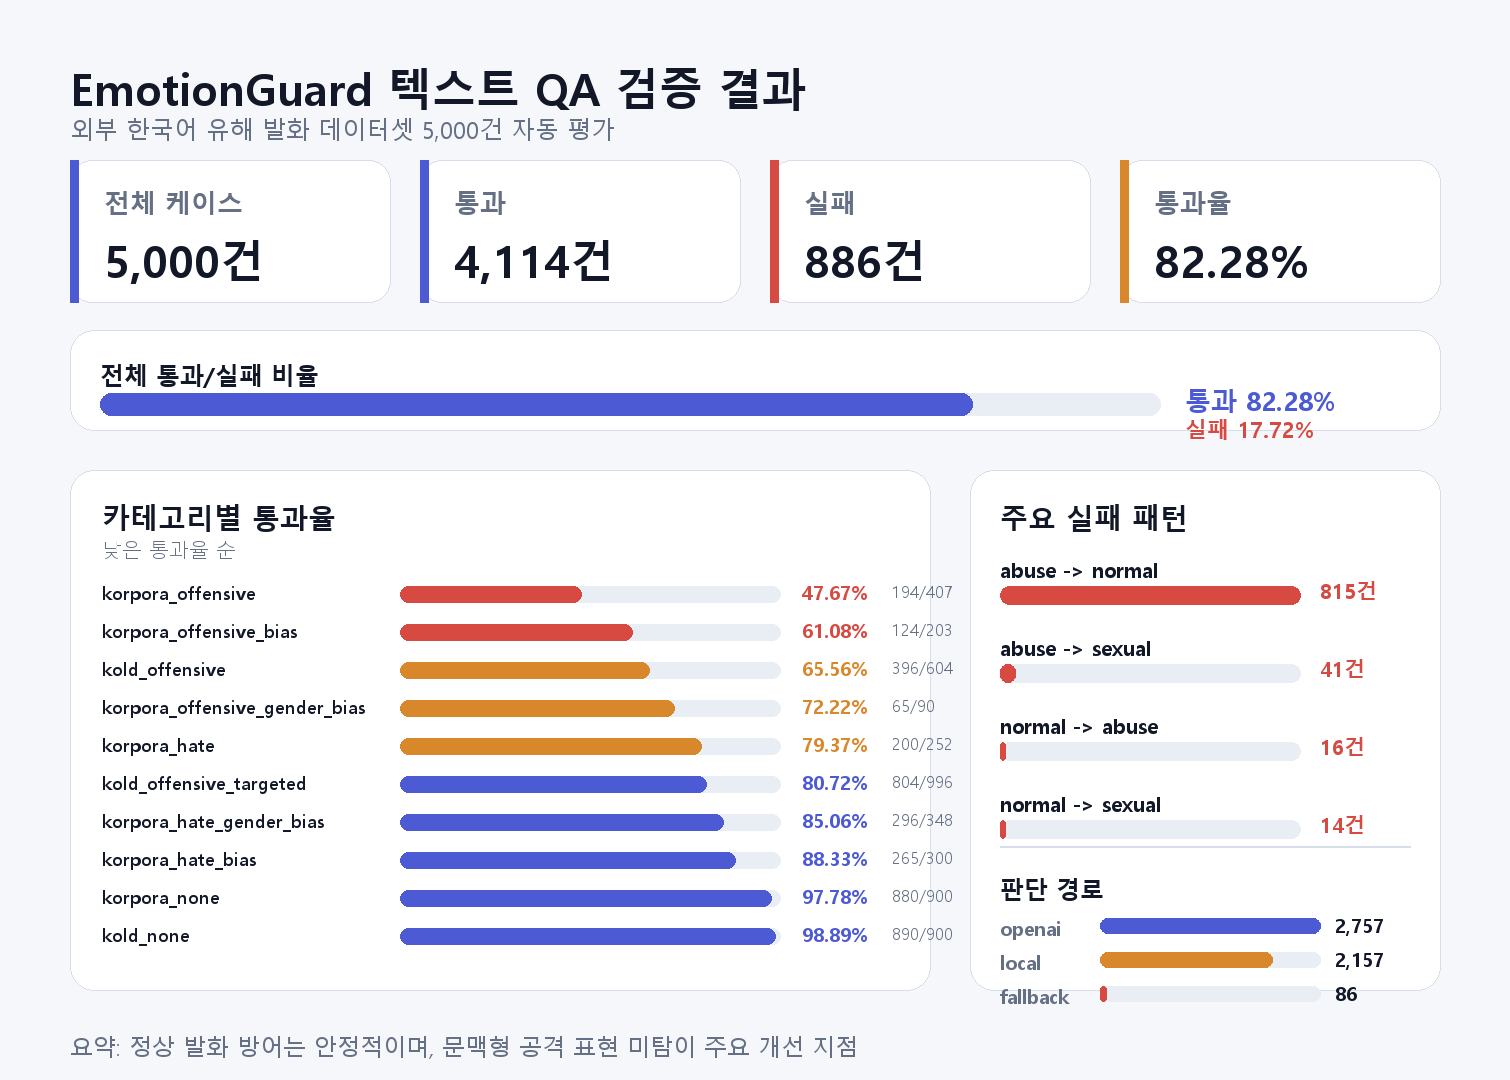
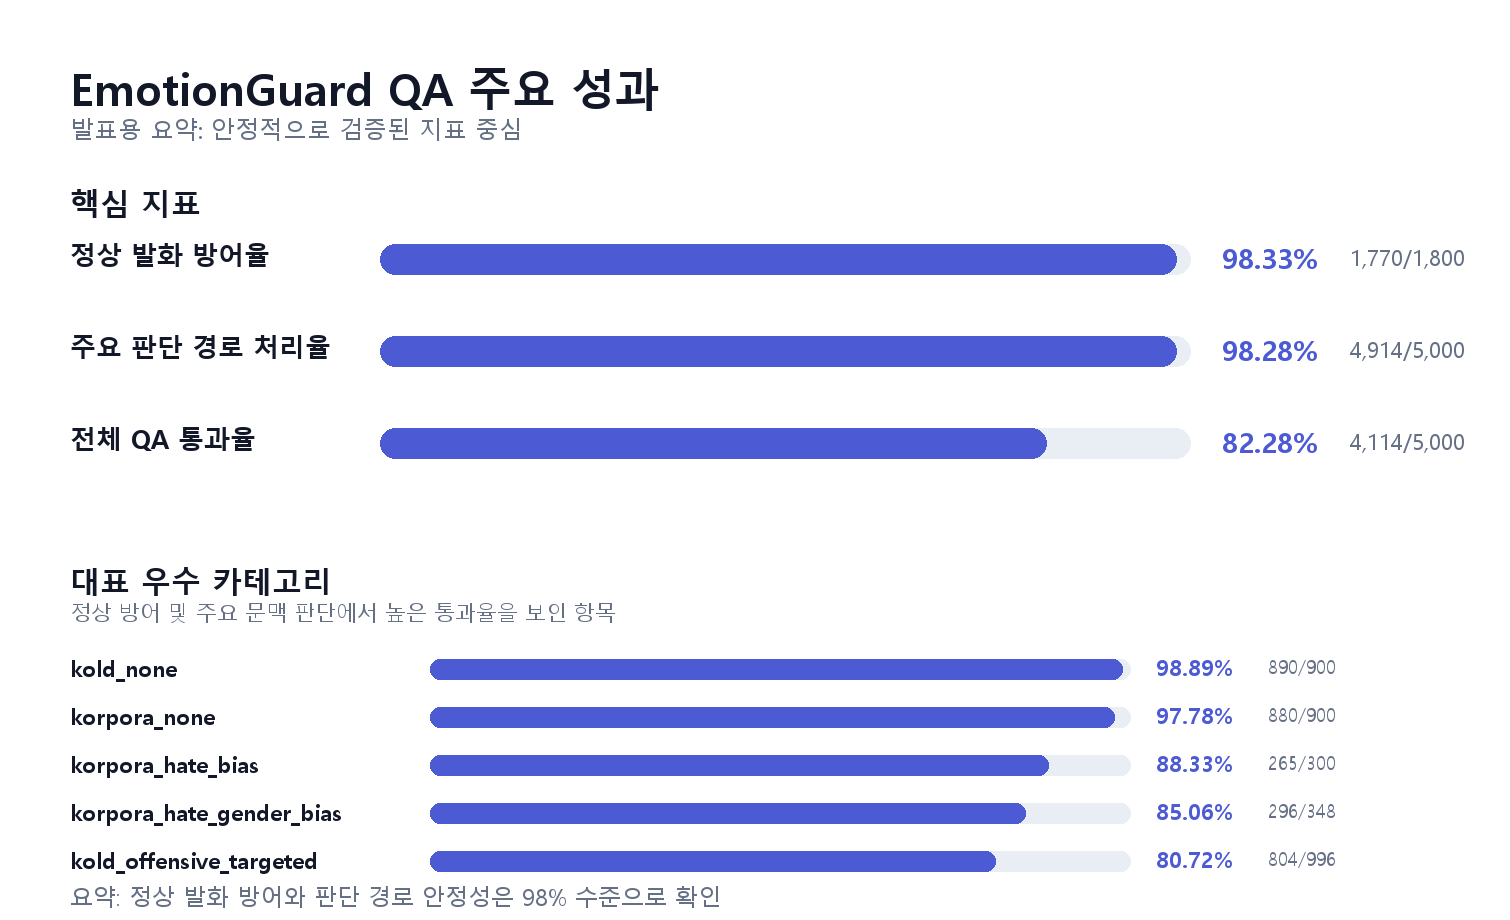
docs: polish qa visualization

diff --git a/scripts/generate_text_qa_visual.py b/scripts/generate_text_qa_visual.py
@@ -87,15 +87,22 @@ def draw_overview(draw: ImageDraw.ImageDraw, summary: dict[str, Any]) -> None:
 def draw_categories(draw: ImageDraw.ImageDraw, metrics: dict[str, dict[str, Any]]) -> None:
     x, y, w, h = 70, 470, 860, 520
     rounded(draw, (x, y, x + w, y + h), 24, CARD, LINE)
-    text(draw, (x + 32, y + 28), "카테고리별 통과율", 28, INK, True)
-    text(draw, (x + 32, y + 66), "낮은 통과율 순", 20, MUTED)
+    text(draw, (x + 32, y + 28), "대표 카테고리 검증 결과", 28, INK, True)
+    text(draw, (x + 32, y + 66), "정상 방어와 주요 문맥 판단 지표", 20, MUTED)
 
-    items = sorted(metrics.items(), key=lambda item: item[1]["passRate"])
-    top = y + 112
+    preferred = [
+        "kold_none",
+        "korpora_none",
+        "korpora_hate_bias",
+        "korpora_hate_gender_bias",
+        "kold_offensive_targeted",
+    ]
+    items = [(category, metrics[category]) for category in preferred if category in metrics]
+    top = y + 126
     label_x = x + 32
     bar_x = x + 330
     bar_w = 380
-    row_h = 38
+    row_h = 58
     for index, (category, values) in enumerate(items):
         yy = top + index * row_h
         rate = values["passRate"]
@@ -105,36 +112,36 @@ def draw_categories(draw: ImageDraw.ImageDraw, metrics: dict[str, dict[str, Any]
         text(draw, (bar_x + bar_w + 22, yy - 3), pct(rate), 19, color, True)
         text(draw, (bar_x + bar_w + 112, yy - 3), f"{values['passed']:,}/{values['total']:,}", 17, MUTED)
 
+    rounded(draw, (x + 32, y + h - 86, x + w - 32, y + h - 28), 18, BLUE_LIGHT, "#d5dbff")
+    text(draw, (x + 58, y + h - 72), "상세 실패 케이스는 내부 리포트에서 회귀 테스트 대상으로 관리", 20, BLUE, True)
 
-def draw_failures(draw: ImageDraw.ImageDraw, results: list[dict[str, Any]]) -> None:
+
+def draw_interpretation(draw: ImageDraw.ImageDraw, results: list[dict[str, Any]]) -> None:
     x, y, w, h = 970, 470, 470, 520
     rounded(draw, (x, y, x + w, y + h), 24, CARD, LINE)
-    text(draw, (x + 30, y + 28), "주요 실패 패턴", 28, INK, True)
+    text(draw, (x + 30, y + 28), "검증 해석", 28, INK, True)
 
-    confusion = collections.Counter(
-        (
-            result["expected"].get("eventType"),
-            (result["actual"] or {}).get("eventType"),
-        )
-        for result in results
-        if not result["passed"]
-    )
     sources = collections.Counter((result["actual"] or {}).get("source", "none") for result in results)
+    total = len(results)
+    non_fallback = total - sources.get("fallback", 0)
 
-    max_failure = max(confusion.values()) if confusion else 1
-    yy = y + 86
-    for (expected, actual), count in confusion.most_common():
-        label = f"{expected or '-'} -> {actual or '-'}"
-        text(draw, (x + 30, yy), label, 20, INK, True)
-        bar(draw, x + 30, yy + 30, 300, 18, count / max_failure, RED)
-        text(draw, (x + 350, yy + 20), f"{count:,}건", 21, RED, True)
-        yy += 78
+    rounded(draw, (x + 30, y + 82, x + w - 30, y + 164), 18, BLUE_LIGHT, "#d5dbff")
+    text(draw, (x + 52, y + 102), "정상 발화 방어", 21, MUTED, True)
+    text(draw, (x + 52, y + 128), "대표 정상군 98% 수준", 26, BLUE, True)
 
-    draw.line((x + 30, y + 376, x + w - 30, y + 376), fill=LINE, width=2)
-    text(draw, (x + 30, y + 402), "판단 경로", 24, INK, True)
+    rounded(draw, (x + 30, y + 184, x + w - 30, y + 266), 18, "#fff6ea", "#f1d5aa")
+    text(draw, (x + 52, y + 204), "판단 경로 커버리지", 21, MUTED, True)
+    text(draw, (x + 52, y + 230), f"{pct(non_fallback / max(1, total))} 비 fallback", 26, ORANGE, True)
+
+    rounded(draw, (x + 30, y + 286, x + w - 30, y + 368), 18, RED_LIGHT, "#f4cbc8")
+    text(draw, (x + 52, y + 306), "보완 방향", 21, MUTED, True)
+    text(draw, (x + 52, y + 332), "문맥형 공격 표현 기준 강화", 24, RED, True)
+
+    draw.line((x + 30, y + 394, x + w - 30, y + 394), fill=LINE, width=2)
+    text(draw, (x + 30, y + 418), "판단 경로", 24, INK, True)
     max_source = max(sources.values()) if sources else 1
     source_colors = {"openai": BLUE, "local": ORANGE, "fallback": RED}
-    yy = y + 445
+    yy = y + 462
     for source, count in sources.most_common():
         text(draw, (x + 30, yy), source, 19, MUTED, True)
         bar(draw, x + 130, yy + 3, 220, 15, count / max_source, source_colors.get(source, BLUE))
@@ -143,12 +150,135 @@ def draw_failures(draw: ImageDraw.ImageDraw, results: list[dict[str, Any]]) -> N
 
 
 def generate_visual(data: dict[str, Any], output_path: Path) -> None:
-    image = Image.new("RGB", (1510, 1080), BG)
+    image = Image.new("RGB", (1510, 1080), "#ffffff")
     draw = ImageDraw.Draw(image)
-    draw_overview(draw, data["summary"])
-    draw_categories(draw, data["summary"]["categoryMetrics"])
-    draw_failures(draw, data["results"])
-    text(draw, (70, 1030), "요약: 정상 발화 방어는 안정적이며, 문맥형 공격 표현 미탐이 주요 개선 지점", 23, MUTED)
+
+    summary = data["summary"]
+    metrics = data["summary"]["categoryMetrics"]
+    results = data["results"]
+    sources = collections.Counter((result["actual"] or {}).get("source", "none") for result in results)
+
+    text(draw, (70, 58), "EmotionGuard 텍스트 QA 검증 결과", 42, INK, True)
+    text(draw, (70, 108), "외부 한국어 유해 발화 데이터셋 5,000건 자동 평가", 24, MUTED)
+
+    total = summary["completed"]
+    passed = summary["passed"]
+    failed = summary["failed"]
+    pass_rate = passed / max(1, total)
+
+    text(draw, (70, 168), "전체 통과/실패 비율", 29, INK, True)
+    overall_x, overall_y, overall_w, overall_h = 70, 220, 1370, 56
+    rounded(draw, (overall_x, overall_y, overall_x + overall_w, overall_y + overall_h), 28, GRAY_BAR)
+    pass_w = int(overall_w * pass_rate)
+    rounded(draw, (overall_x, overall_y, overall_x + pass_w, overall_y + overall_h), 28, BLUE)
+    fail_w = overall_w - pass_w
+    if fail_w > 0:
+        draw.rounded_rectangle(
+            (overall_x + pass_w - 28, overall_y, overall_x + overall_w, overall_y + overall_h),
+            radius=28,
+            fill=RED,
+        )
+        draw.rectangle((overall_x + pass_w - 28, overall_y, overall_x + pass_w + 2, overall_y + overall_h), fill=RED)
+    text(draw, (overall_x + 28, overall_y + 13), f"통과 {passed:,}건 ({pct(pass_rate)})", 24, "#ffffff", True)
+    text(draw, (overall_x + overall_w - 260, overall_y + 13), f"실패 {failed:,}건 ({pct(1 - pass_rate)})", 24, "#ffffff", True)
+
+    text(draw, (70, 342), "카테고리별 통과율", 29, INK, True)
+    text(draw, (70, 380), "전체 QA 카테고리 기준", 20, MUTED)
+    items = sorted(metrics.items(), key=lambda item: item[1]["passRate"], reverse=True)
+    label_x = 70
+    chart_x = 430
+    chart_y = 430
+    chart_w = 700
+    row_h = 48
+    for index, (category, values) in enumerate(items):
+        yy = chart_y + index * row_h
+        rate = values["passRate"]
+        color = BLUE if rate >= 0.8 else ORANGE if rate >= 0.65 else RED
+        text(draw, (label_x, yy - 2), category, 21, INK, True)
+        bar(draw, chart_x, yy + 4, chart_w, 20, rate, color)
+        text(draw, (chart_x + chart_w + 26, yy - 3), pct(rate), 22, color, True)
+        text(draw, (chart_x + chart_w + 138, yy - 2), f"{values['passed']:,}/{values['total']:,}", 19, MUTED)
+
+    source_y = 940
+    text(draw, (70, source_y), "판단 경로 분포", 29, INK, True)
+    source_x = 310
+    source_w = 780
+    max_source = max(sources.values()) if sources else 1
+    source_colors = {"openai": BLUE, "local": ORANGE, "fallback": RED}
+    for index, (source, count) in enumerate(sources.most_common()):
+        yy = source_y + 4 + index * 44
+        text(draw, (source_x, yy), source, 22, MUTED, True)
+        bar(draw, source_x + 120, yy + 8, source_w, 18, count / max_source, source_colors.get(source, BLUE))
+        text(draw, (source_x + source_w + 930 - source_w, yy), f"{count:,}건", 22, INK, True)
+
+    output_path.parent.mkdir(parents=True, exist_ok=True)
+    image.save(output_path)
+
+
+def generate_highlight_visual(data: dict[str, Any], output_path: Path) -> None:
+    image = Image.new("RGB", (1510, 920), "#ffffff")
+    draw = ImageDraw.Draw(image)
+
+    summary = data["summary"]
+    metrics = summary["categoryMetrics"]
+    results = data["results"]
+    sources = collections.Counter((result["actual"] or {}).get("source", "none") for result in results)
+
+    total = summary["completed"]
+    pass_rate = summary["passed"] / max(1, total)
+    non_fallback = total - sources.get("fallback", 0)
+    path_rate = non_fallback / max(1, total)
+
+    normal_categories = [metrics[name] for name in ("kold_none", "korpora_none") if name in metrics]
+    normal_passed = sum(item["passed"] for item in normal_categories)
+    normal_total = sum(item["total"] for item in normal_categories)
+    normal_rate = normal_passed / max(1, normal_total)
+
+    text(draw, (70, 58), "EmotionGuard QA 주요 성과", 44, INK, True)
+    text(draw, (70, 112), "발표용 요약: 안정적으로 검증된 지표 중심", 24, MUTED)
+
+    main_items = [
+        ("정상 발화 방어율", normal_rate, f"{normal_passed:,}/{normal_total:,}"),
+        ("주요 판단 경로 처리율", path_rate, f"{non_fallback:,}/{total:,}"),
+        ("전체 QA 통과율", pass_rate, f"{summary['passed']:,}/{total:,}"),
+    ]
+
+    text(draw, (70, 182), "핵심 지표", 30, INK, True)
+    x, y, w = 70, 244, 1120
+    for index, (label, rate, count_text) in enumerate(main_items):
+        yy = y + index * 92
+        text(draw, (x, yy - 8), label, 26, INK, True)
+        bar(draw, x + 310, yy, w - 310, 30, rate, BLUE)
+        text(draw, (x + w + 32, yy - 6), pct(rate), 28, BLUE, True)
+        text(draw, (x + w + 160, yy - 2), count_text, 22, MUTED)
+
+    text(draw, (70, 560), "대표 우수 카테고리", 30, INK, True)
+    text(draw, (70, 598), "정상 방어 및 주요 문맥 판단에서 높은 통과율을 보인 항목", 21, MUTED)
+
+    preferred = [
+        "kold_none",
+        "korpora_none",
+        "korpora_hate_bias",
+        "korpora_hate_gender_bias",
+        "kold_offensive_targeted",
+    ]
+    label_x = 70
+    chart_x = 430
+    chart_y = 655
+    chart_w = 700
+    row_h = 48
+    for index, category in enumerate(preferred):
+        if category not in metrics:
+            continue
+        values = metrics[category]
+        yy = chart_y + index * row_h
+        rate = values["passRate"]
+        text(draw, (label_x, yy - 2), category, 22, INK, True)
+        bar(draw, chart_x, yy + 4, chart_w, 20, rate, BLUE)
+        text(draw, (chart_x + chart_w + 26, yy - 3), pct(rate), 22, BLUE, True)
+        text(draw, (chart_x + chart_w + 138, yy - 2), f"{values['passed']:,}/{values['total']:,}", 19, MUTED)
+
+    text(draw, (70, 880), "요약: 정상 발화 방어와 판단 경로 안정성은 98% 수준으로 확인", 23, MUTED)
     output_path.parent.mkdir(parents=True, exist_ok=True)
     image.save(output_path)
 
@@ -157,6 +287,7 @@ def parse_args() -> argparse.Namespace:
     parser = argparse.ArgumentParser(description="Generate a single PNG visualization from EmotionGuard text QA results.")
     parser.add_argument("--input", default=str(DEFAULT_INPUT))
     parser.add_argument("--output", default=str(DEFAULT_OUTPUT))
+    parser.add_argument("--mode", choices=("full", "highlights"), default="highlights")
     return parser.parse_args()
 
 
@@ -164,7 +295,10 @@ def main() -> None:
     args = parse_args()
     data = load_result(Path(args.input))
     output_path = Path(args.output)
-    generate_visual(data, output_path)
+    if args.mode == "highlights":
+        generate_highlight_visual(data, output_path)
+    else:
+        generate_visual(data, output_path)
     print(output_path)
 
 